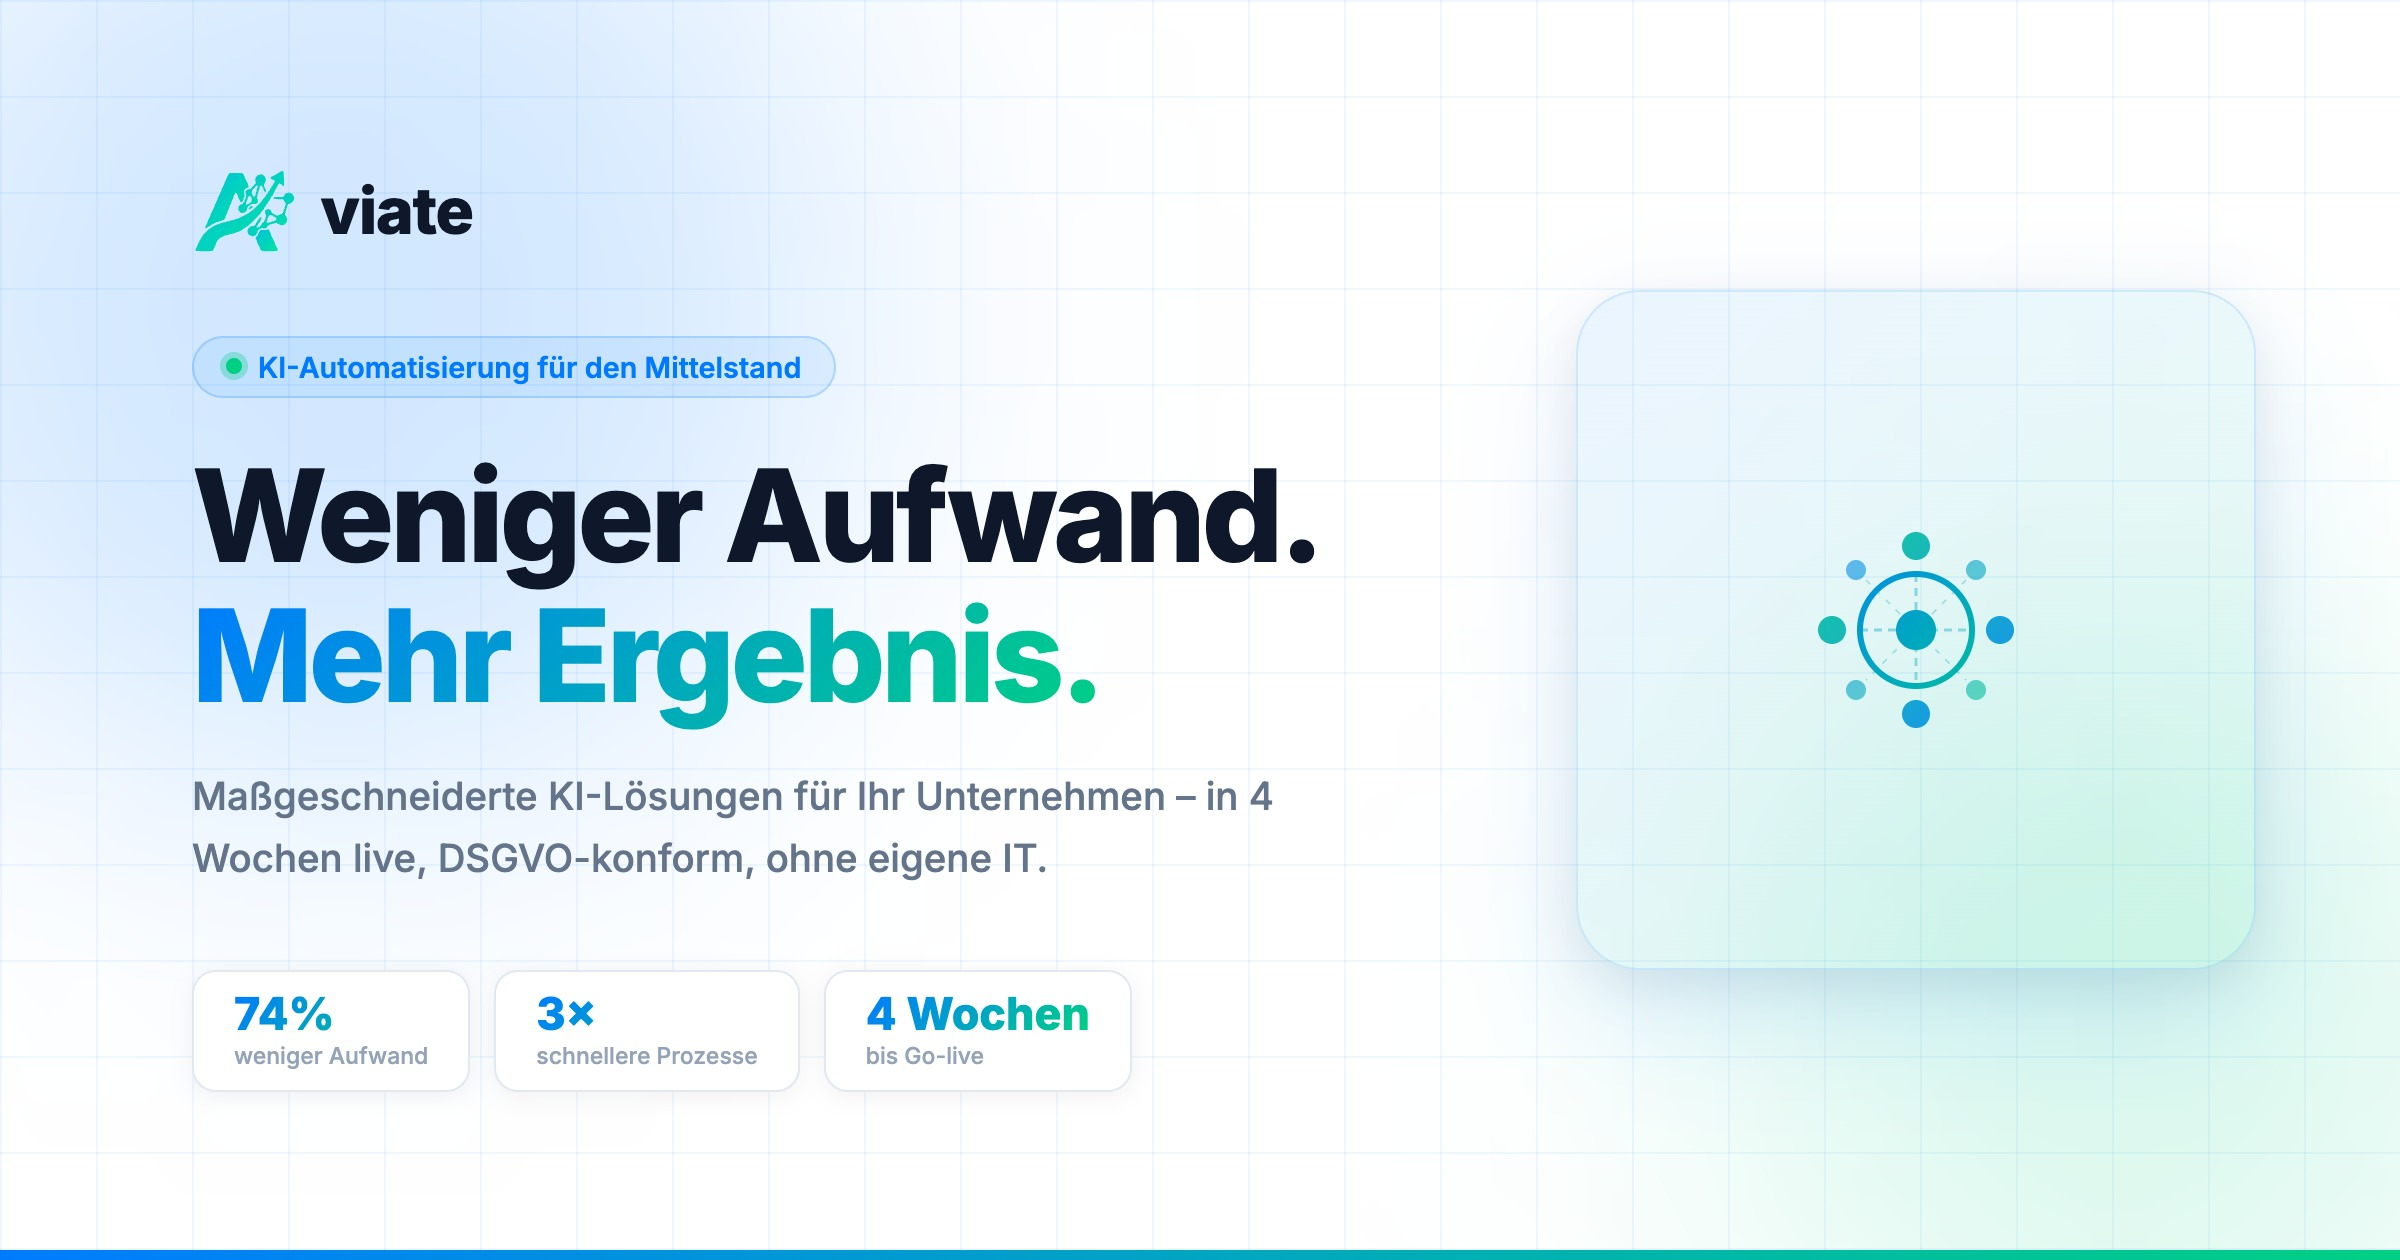
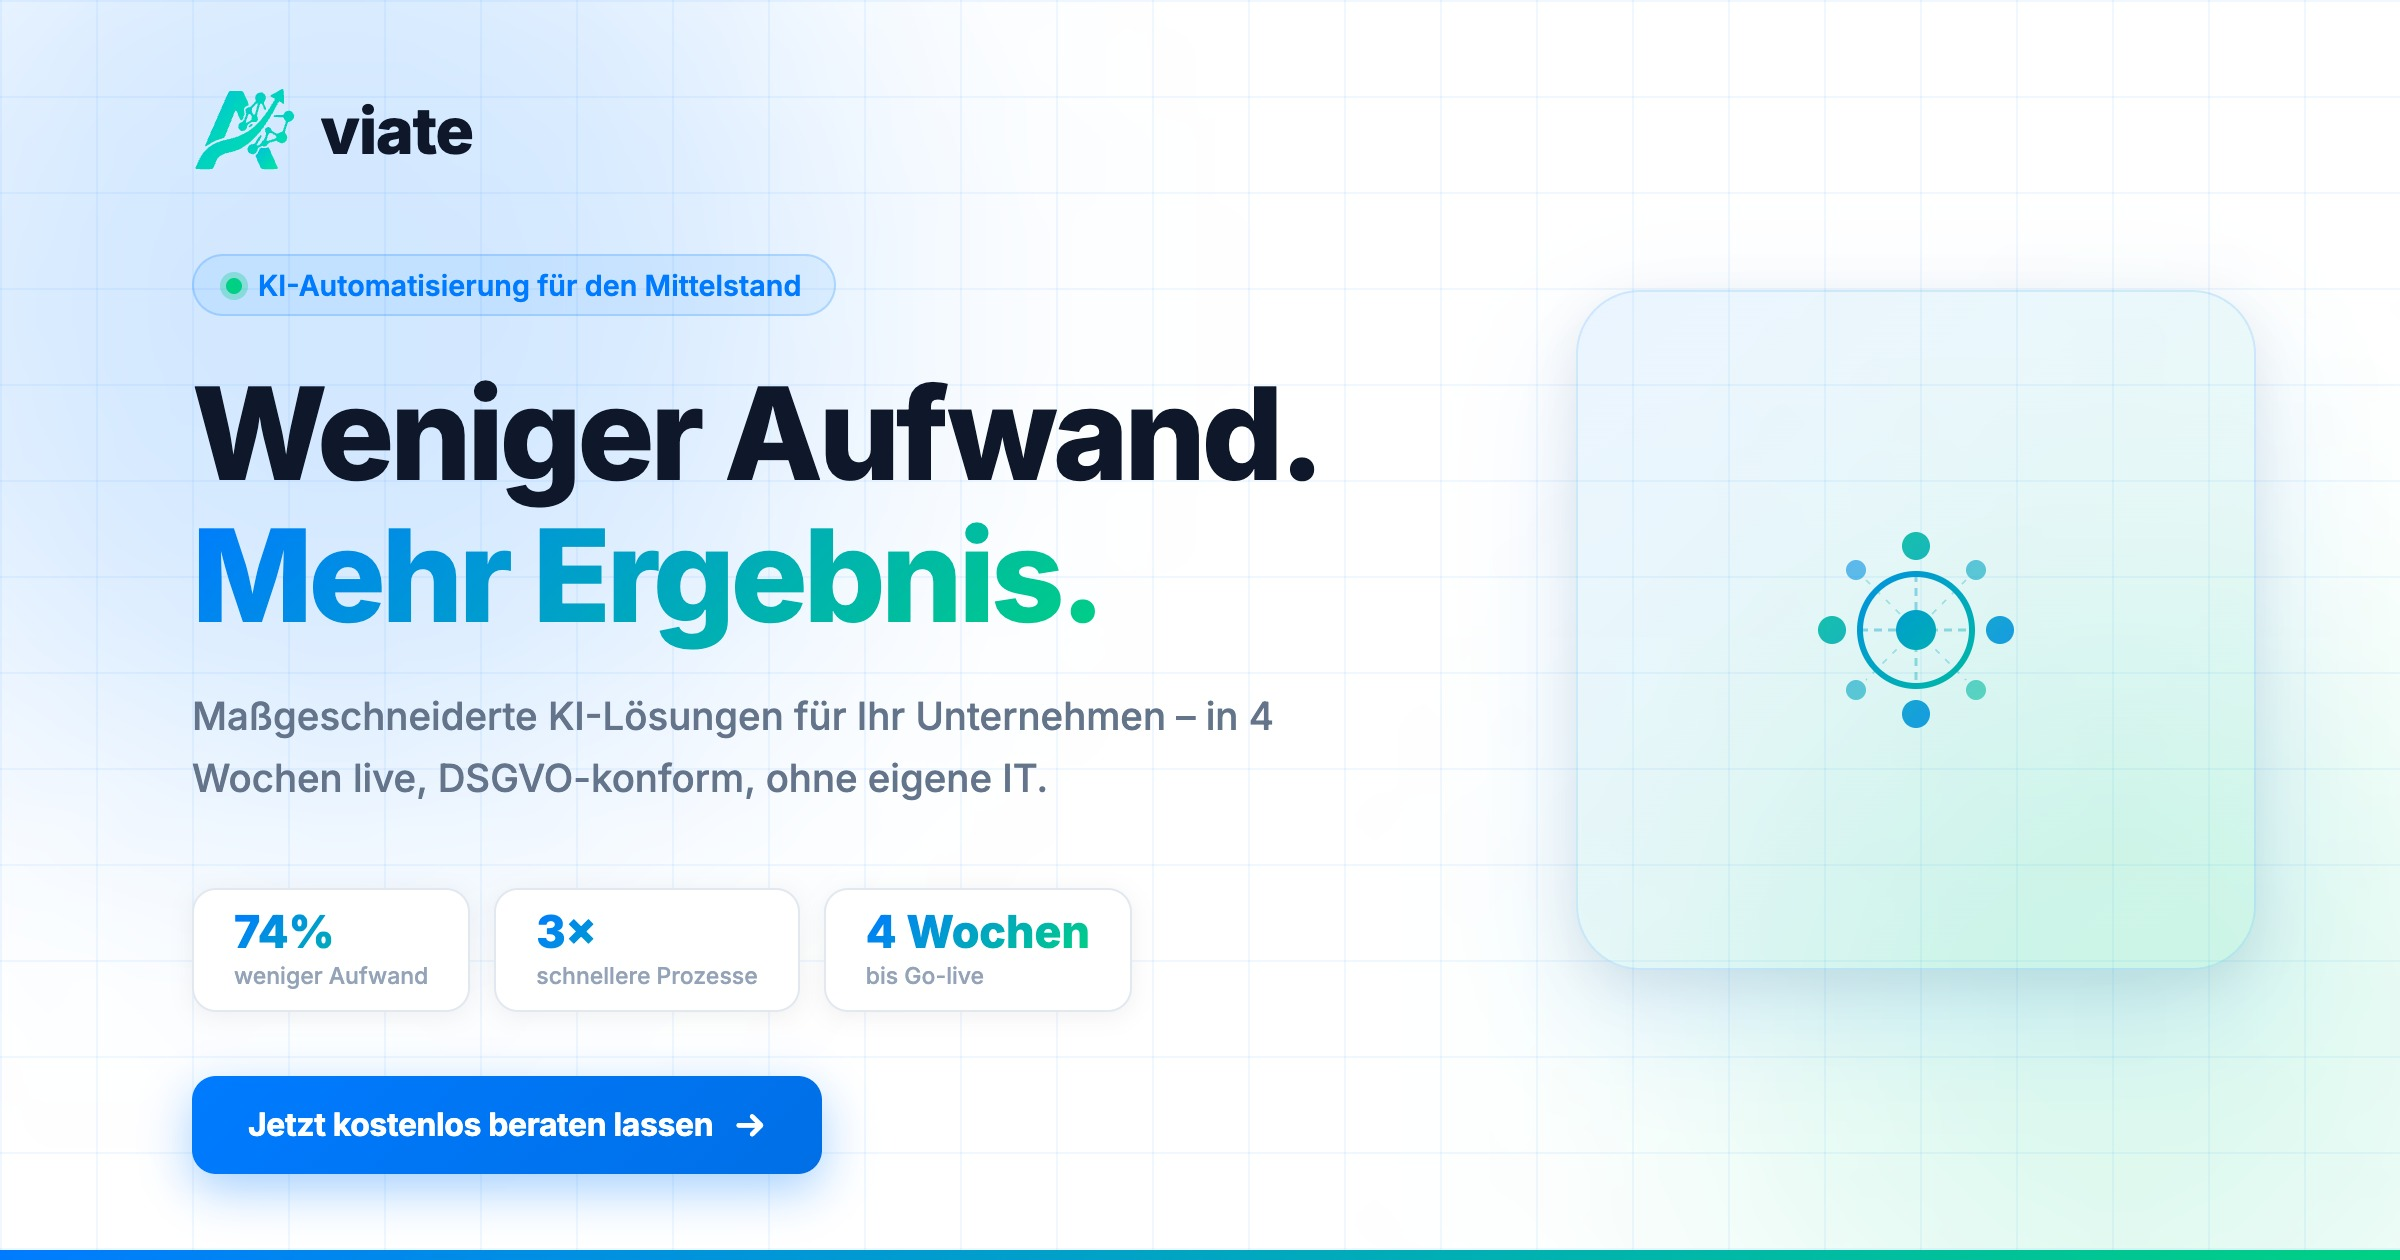
Fix og:image and og:url to use aiviate.de domain + add CTA to OG image

Changed region(s): [[0.0625, 0.0619, 0.5625, 0.9595]]

diff --git a/index.html b/index.html
@@ -6,16 +6,16 @@
   <title>Aiviate – KI-Automatisierung für den Mittelstand</title>
   <link rel="stylesheet" href="style.css" />
   <link rel="icon" href="aiviate-logo.svg" type="image/svg+xml" />
-  <meta property="og:image" content="https://finnjung.github.io/aiviate-website/og-image.jpg" />
+  <meta property="og:image" content="https://aiviate.de/og-image.jpg" />
   <meta property="og:image:width" content="1200" />
   <meta property="og:image:height" content="630" />
-  <meta property="og:url" content="https://finnjung.github.io/aiviate-website/" />
+  <meta property="og:url" content="https://aiviate.de/" />
   <meta property="og:title" content="Aiviate – KI-Automatisierung für den Mittelstand" />
-  <meta property="og:description" content="Aiviate automatisiert repetitive Prozesse im Mittelstand – messbar wirksam, in 4 Wochen live, ohne eigene IT." />
+  <meta property="og:description" content="Aiviate automatisiert repetitive Prozesse im Mittelstand – messbar wirksam, in 4 Wochen live, DSGVO-konform und ohne eigene IT-Abteilung." />
   <meta property="og:type" content="website" />
   <meta property="og:site_name" content="Aiviate" />
   <meta name="twitter:card" content="summary_large_image" />
-  <meta name="twitter:image" content="https://finnjung.github.io/aiviate-website/og-image.jpg" />
+  <meta name="twitter:image" content="https://aiviate.de/og-image.jpg" />
   <link rel="preconnect" href="https://fonts.googleapis.com" />
   <link rel="preconnect" href="https://fonts.gstatic.com" crossorigin />
   <link href="https://fonts.googleapis.com/css2?family=Inter:wght@300;400;500;600;700;800&display=swap" rel="stylesheet" />

diff --git a/datenschutz.html b/datenschutz.html
@@ -6,16 +6,16 @@
   <title>Datenschutzerklärung – Aiviate GbR</title>
   <link rel="stylesheet" href="style.css" />
   <link rel="icon" href="aiviate-logo.svg" type="image/svg+xml" />
-  <meta property="og:image" content="https://finnjung.github.io/aiviate-website/og-image.jpg" />
+  <meta property="og:image" content="https://aiviate.de/og-image.jpg" />
   <meta property="og:image:width" content="1200" />
   <meta property="og:image:height" content="630" />
-  <meta property="og:url" content="https://finnjung.github.io/aiviate-website/datenschutz.html" />
+  <meta property="og:url" content="https://aiviate.de/datenschutz.html" />
   <meta property="og:title" content="Datenschutz – Aiviate GbR" />
   <meta property="og:description" content="Datenschutzerklärung der Aiviate GbR gemäß DSGVO." />
   <meta property="og:type" content="website" />
   <meta property="og:site_name" content="Aiviate" />
   <meta name="twitter:card" content="summary_large_image" />
-  <meta name="twitter:image" content="https://finnjung.github.io/aiviate-website/og-image.jpg" />
+  <meta name="twitter:image" content="https://aiviate.de/og-image.jpg" />
   <link rel="preconnect" href="https://fonts.googleapis.com" />
   <link rel="preconnect" href="https://fonts.gstatic.com" crossorigin />
   <link href="https://fonts.googleapis.com/css2?family=Inter:wght@300;400;500;600;700;800&display=swap" rel="stylesheet" />

diff --git a/impressum.html b/impressum.html
@@ -6,16 +6,16 @@
   <title>Impressum – Aiviate GbR</title>
   <link rel="stylesheet" href="style.css" />
   <link rel="icon" href="aiviate-logo.svg" type="image/svg+xml" />
-  <meta property="og:image" content="https://finnjung.github.io/aiviate-website/og-image.jpg" />
+  <meta property="og:image" content="https://aiviate.de/og-image.jpg" />
   <meta property="og:image:width" content="1200" />
   <meta property="og:image:height" content="630" />
-  <meta property="og:url" content="https://finnjung.github.io/aiviate-website/impressum.html" />
+  <meta property="og:url" content="https://aiviate.de/impressum.html" />
   <meta property="og:title" content="Impressum – Aiviate GbR" />
   <meta property="og:description" content="Impressum der Aiviate GbR, Lennart Dürr &amp; Finn Jung." />
   <meta property="og:type" content="website" />
   <meta property="og:site_name" content="Aiviate" />
   <meta name="twitter:card" content="summary_large_image" />
-  <meta name="twitter:image" content="https://finnjung.github.io/aiviate-website/og-image.jpg" />
+  <meta name="twitter:image" content="https://aiviate.de/og-image.jpg" />
   <link rel="preconnect" href="https://fonts.googleapis.com" />
   <link rel="preconnect" href="https://fonts.gstatic.com" crossorigin />
   <link href="https://fonts.googleapis.com/css2?family=Inter:wght@300;400;500;600;700;800&display=swap" rel="stylesheet" />
